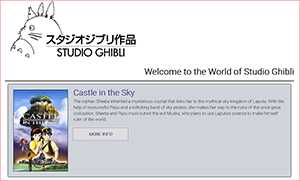
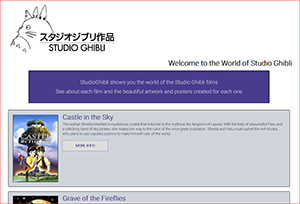
added summary to home page

diff --git a/assets/css/ghibli.min.css b/assets/css/ghibli.min.css
@@ -1,2 +1,2 @@
-*{-webkit-box-sizing:border-box;box-sizing:border-box;margin:0;padding:0;-webkit-transition-property:all;transition-property:all;-webkit-transition-duration:.6s;transition-duration:.6s;-webkit-transition-timing-function:ease;transition-timing-function:ease}body{font-family:'Roboto', sans-serif;font-size:16px;line-height:1.4em;color:#000;margin:50px}html{scroll-behavior:smooth}a{color:#000;text-decoration:none}.header{font-weight:bold;color:#483d8b}h2{color:#483d8b;font-weight:bold}header{border-bottom:2px solid #000}header h1{text-align:right}footer{font-size:12px;text-align:center;border-top:2px solid #000;padding:20px 0}.apiLogos{width:6%;height:6%;vertical-align:middle}button{color:#483d8b;cursor:pointer;font-size:16px;font-weight:bold;line-height:45px;margin:0 0 2em;max-width:200px;position:relative;text-decoration:none;text-transform:uppercase;width:100%;border-radius:4px;-webkit-border-radius:4px;-moz-border-radius:4px;-ms-border-radius:4px}button:hover{text-decoration:none;font-weight:normal}@media only screen and (max-width: 600px){body{margin:10px}header img{width:70%;height:auto}header h1{font-size:1.5em}button{font-size:12px}}.films{display:-webkit-box;display:-ms-flexbox;display:flex;-webkit-box-pack:center;-ms-flex-pack:center;justify-content:center;-webkit-box-align:center;-ms-flex-align:center;align-items:center;-webkit-box-orient:vertical;-webkit-box-direction:normal;-ms-flex-flow:column;flex-flow:column;max-width:100%}.film{display:-webkit-box;display:-ms-flexbox;display:flex;border:1px solid #000;margin:10px;padding:20px;background-color:#ced4da;border-radius:5px;-webkit-border-radius:5px;-moz-border-radius:5px;-ms-border-radius:5px}.filmPoster{margin-right:20px;vertical-align:top;border:1px solid #000}.filmPosterNoImage{font-size:12px;margin-right:20px;width:200px;color:red}.filmText h2{margin-bottom:10px;font-size:30px}.fa-image{font-size:100px;color:red}.films img{height:auto;width:200px}.moreInfo-button{margin-top:20px;border:0 solid;-webkit-box-shadow:inset 0 0 20px rgba(72,61,139,0);box-shadow:inset 0 0 20px rgba(72,61,139,0);outline:1px solid;outline-color:rgba(72,61,139,0.5);outline-offset:0px;text-shadow:none;-webkit-transition:all 1250ms cubic-bezier(0.19, 1, 0.22, 1);transition:all 1250ms cubic-bezier(0.19, 1, 0.22, 1);border-radius:4px;-webkit-border-radius:4px;-moz-border-radius:4px;-ms-border-radius:4px}.moreInfo-button:hover,.moreInfo-button:focus{border:1px solid;-webkit-box-shadow:inset 0 0 20px rgba(72,61,139,0.5),0 0 20px rgba(72,61,139,0.2);box-shadow:inset 0 0 20px rgba(72,61,139,0.5),0 0 20px rgba(72,61,139,0.2);outline-color:rgba(72,61,139,0);outline-offset:15px;text-shadow:1px 1px 2px #427388;border-radius:4px;-webkit-border-radius:4px;-moz-border-radius:4px;-ms-border-radius:4px}@media only screen and (max-width: 750px){.films img{height:50%;width:50%}.filmText h2{margin:10px 0;font-size:20px;line-height:25px}.film{-webkit-box-orient:vertical;-webkit-box-direction:normal;-ms-flex-direction:column;flex-direction:column}}.film-details{padding:20px;background-color:#ced4da;border-radius:4px;-webkit-border-radius:4px;-moz-border-radius:4px;-ms-border-radius:4px;margin:20px;border:1px solid #000}.film-details h2{margin:50px 0 30px 0}#js-film-details{display:none}.details-top{display:-webkit-box;display:-ms-flexbox;display:flex;-webkit-box-orient:horizontal;-webkit-box-direction:normal;-ms-flex-flow:row;flex-flow:row;-ms-flex-pack:distribute;justify-content:space-around;list-style-type:none}.details-filmPoster{width:300px;height:auto;vertical-align:top;border:1px solid #000}.details-information{width:auto;margin:0 50px;vertical-align:top}.details-information h2{margin-top:20px;font-size:30px}.details-information p{margin-top:5px}.details-backdrops,.details-posters{background-color:#483d8b;padding:20px;border-radius:4px;-webkit-border-radius:4px;-moz-border-radius:4px;-ms-border-radius:4px}.back-button{margin-top:50px;border:0 solid;-webkit-box-shadow:inset 0 0 20px rgba(72,61,139,0);box-shadow:inset 0 0 20px rgba(72,61,139,0);outline:1px solid;outline-color:rgba(72,61,139,0.5);outline-offset:0px;text-shadow:none;-webkit-transition:all 1250ms cubic-bezier(0.19, 1, 0.22, 1);transition:all 1250ms cubic-bezier(0.19, 1, 0.22, 1);border-radius:4px;-webkit-border-radius:4px;-moz-border-radius:4px;-ms-border-radius:4px}.back-button:hover,.back-button:focus{border:1px solid;-webkit-box-shadow:inset 0 0 20px rgba(72,61,139,0.5),0 0 20px rgba(72,61,139,0.2);box-shadow:inset 0 0 20px rgba(72,61,139,0.5),0 0 20px rgba(72,61,139,0.2);outline-color:rgba(72,61,139,0);outline-offset:15px;text-shadow:1px 1px 2px #427388;border-radius:4px;-webkit-border-radius:4px;-moz-border-radius:4px;-ms-border-radius:4px}@media only screen and (max-width: 800px){.details-filmPoster{width:100px;height:auto;vertical-align:top;border:1px solid #000}.details-information{margin:0 10px}.details-information h2{font-size:20px;line-height:25px}.details-top{-webkit-box-orient:vertical;-webkit-box-direction:normal;-ms-flex-direction:column;flex-direction:column}}
+*{-webkit-box-sizing:border-box;box-sizing:border-box;margin:0;padding:0;-webkit-transition-property:all;transition-property:all;-webkit-transition-duration:.6s;transition-duration:.6s;-webkit-transition-timing-function:ease;transition-timing-function:ease}body{font-family:'Roboto', sans-serif;font-size:16px;line-height:1.4em;color:#000;margin:50px}html{scroll-behavior:smooth}a{color:#000;text-decoration:none}.header{font-weight:bold;color:#483d8b}h2{color:#483d8b;font-weight:bold}header h1{text-align:right}footer{font-size:12px;text-align:center;border-top:2px solid #000;padding:20px 0}.apiLogos{width:6%;height:6%;vertical-align:middle}button{color:#483d8b;cursor:pointer;font-size:16px;font-weight:bold;line-height:45px;margin:0 0 2em;max-width:200px;position:relative;text-decoration:none;text-transform:uppercase;width:100%;border-radius:4px;-webkit-border-radius:4px;-moz-border-radius:4px;-ms-border-radius:4px}button:hover{text-decoration:none;font-weight:normal}@media only screen and (max-width: 600px){body{margin:10px}header img{width:70%;height:auto}header h1{font-size:1.5em}button{font-size:12px}}.films{display:-webkit-box;display:-ms-flexbox;display:flex;-webkit-box-pack:center;-ms-flex-pack:center;justify-content:center;-webkit-box-align:center;-ms-flex-align:center;align-items:center;-webkit-box-orient:vertical;-webkit-box-direction:normal;-ms-flex-flow:column;flex-flow:column;max-width:100%}.film{display:-webkit-box;display:-ms-flexbox;display:flex;border:1px solid #000;margin:10px;padding:20px;background-color:#ced4da;border-radius:5px;-webkit-border-radius:5px;-moz-border-radius:5px;-ms-border-radius:5px}.filmPoster{margin-right:20px;vertical-align:top;border:1px solid #000}.filmPosterNoImage{font-size:12px;margin-right:20px;width:200px;color:red}.filmText h2{margin-bottom:10px;font-size:30px}.fa-image{font-size:100px;color:red}.films img{height:auto;width:200px}.moreInfo-button{margin-top:20px;border:0 solid;-webkit-box-shadow:inset 0 0 20px rgba(72,61,139,0);box-shadow:inset 0 0 20px rgba(72,61,139,0);outline:1px solid;outline-color:rgba(72,61,139,0.5);outline-offset:0px;text-shadow:none;-webkit-transition:all 1250ms cubic-bezier(0.19, 1, 0.22, 1);transition:all 1250ms cubic-bezier(0.19, 1, 0.22, 1);border-radius:4px;-webkit-border-radius:4px;-moz-border-radius:4px;-ms-border-radius:4px}.moreInfo-button:hover,.moreInfo-button:focus{border:1px solid;-webkit-box-shadow:inset 0 0 20px rgba(72,61,139,0.5),0 0 20px rgba(72,61,139,0.2);box-shadow:inset 0 0 20px rgba(72,61,139,0.5),0 0 20px rgba(72,61,139,0.2);outline-color:rgba(72,61,139,0);outline-offset:15px;text-shadow:1px 1px 2px #427388;border-radius:4px;-webkit-border-radius:4px;-moz-border-radius:4px;-ms-border-radius:4px}.summary{border:1px solid #000;background-color:#483d8b;padding:20px;margin:20px 100px;border-radius:4px;-webkit-border-radius:4px;-moz-border-radius:4px;-ms-border-radius:4px}.summary p{margin:20px 0;text-align:center;color:#ced4da;font-size:24px}@media only screen and (max-width: 750px){.films img{height:50%;width:50%}.filmText h2{margin:10px 0;font-size:20px;line-height:25px}.film{-webkit-box-orient:vertical;-webkit-box-direction:normal;-ms-flex-direction:column;flex-direction:column}.summary{margin:10px 30px}.summary p{font-size:18px}}.film-details{padding:20px;background-color:#ced4da;border-radius:4px;-webkit-border-radius:4px;-moz-border-radius:4px;-ms-border-radius:4px;margin:20px;border:1px solid #000}.film-details h2{margin:50px 0 30px 0}#js-film-details{display:none}.details-top{display:-webkit-box;display:-ms-flexbox;display:flex;-webkit-box-orient:horizontal;-webkit-box-direction:normal;-ms-flex-flow:row;flex-flow:row;-ms-flex-pack:distribute;justify-content:space-around;list-style-type:none}.details-filmPoster{width:300px;height:auto;vertical-align:top;border:1px solid #000}.details-information{width:auto;margin:0 50px;vertical-align:top}.details-information h2{margin-top:20px;font-size:30px}.details-information p{margin-top:5px}.details-backdrops,.details-posters{background-color:#483d8b;padding:20px;border-radius:4px;-webkit-border-radius:4px;-moz-border-radius:4px;-ms-border-radius:4px}.back-button{margin-top:50px;border:0 solid;-webkit-box-shadow:inset 0 0 20px rgba(72,61,139,0);box-shadow:inset 0 0 20px rgba(72,61,139,0);outline:1px solid;outline-color:rgba(72,61,139,0.5);outline-offset:0px;text-shadow:none;-webkit-transition:all 1250ms cubic-bezier(0.19, 1, 0.22, 1);transition:all 1250ms cubic-bezier(0.19, 1, 0.22, 1);border-radius:4px;-webkit-border-radius:4px;-moz-border-radius:4px;-ms-border-radius:4px}.back-button:hover,.back-button:focus{border:1px solid;-webkit-box-shadow:inset 0 0 20px rgba(72,61,139,0.5),0 0 20px rgba(72,61,139,0.2);box-shadow:inset 0 0 20px rgba(72,61,139,0.5),0 0 20px rgba(72,61,139,0.2);outline-color:rgba(72,61,139,0);outline-offset:15px;text-shadow:1px 1px 2px #427388;border-radius:4px;-webkit-border-radius:4px;-moz-border-radius:4px;-ms-border-radius:4px}@media only screen and (max-width: 800px){.details-filmPoster{width:100px;height:auto;vertical-align:top;border:1px solid #000}.details-information{margin:0 10px}.details-information h2{font-size:20px;line-height:25px}.details-top{-webkit-box-orient:vertical;-webkit-box-direction:normal;-ms-flex-direction:column;flex-direction:column}}
 /*# sourceMappingURL=ghibli.min.css.map */

diff --git a/assets/css/ghibli.css b/assets/css/ghibli.css
@@ -39,10 +39,6 @@ h2 {
 }
 
 /* header */
-header {
-  border-bottom: 2px solid #000;
-}
-
 header h1 {
   text-align: right;
 }
@@ -192,6 +188,24 @@ button:hover {
   -ms-border-radius: 4px;
 }
 
+.summary {
+  border: 1px solid #000;
+  background-color: darkslateblue;
+  padding: 20px;
+  margin: 20px 100px;
+  border-radius: 4px;
+  -webkit-border-radius: 4px;
+  -moz-border-radius: 4px;
+  -ms-border-radius: 4px;
+}
+
+.summary p {
+  margin: 20px 0;
+  text-align: center;
+  color: #ced4da;
+  font-size: 24px;
+}
+
 @media only screen and (max-width: 750px) {
   .films img {
     height: 50%;
@@ -207,6 +221,12 @@ button:hover {
     -webkit-box-direction: normal;
         -ms-flex-direction: column;
             flex-direction: column;
+  }
+  .summary {
+    margin: 10px 30px;
+  }
+  .summary p {
+    font-size: 18px;
   }
 }
 

diff --git a/index.html b/index.html
@@ -20,12 +20,21 @@
           <h1>Welcome to the World of Studio Ghibli</h1>
         </header>
 
+        <section class="summary">
+          <p>
+            StudioGhibli shows you the world of the Studio Ghibli films
+          </p>
+          <p>
+            See about each film and the beautiful artwork and posters created for each one
+          </p>
+        </section>
+
         <section class="films" id="js-films"></section>
         <section class="film-details" id='js-film-details'></section>
       
       </main> 
 
-      <footer role="content-info">
+      <footer>
         Kimberly Cable &copy; <span id="year"></span>
         
         <div>

diff --git a/assets/scss/_home.scss b/assets/scss/_home.scss
@@ -67,6 +67,21 @@
   @include border-radius(4px);
 }
 
+.summary {
+  border: 1px solid $black;
+  background-color: $headers;
+  padding: 20px;
+  margin: 20px 100px;
+  @include border-radius(4px);
+}
+
+.summary p {
+  margin: 20px 0;
+  text-align: center;
+  color: $background-color;
+  font-size: 24px;
+}
+
 @media only screen and (max-width: 750px) {  
   .films img {
     height: 50%;
@@ -81,5 +96,13 @@
 
   .film {
     flex-direction: column;
+  }
+
+  .summary {
+    margin: 10px 30px;
+  }
+
+  .summary p {
+    font-size:  18px;
   }
 }

diff --git a/assets/scripts/scripts.js b/assets/scripts/scripts.js
@@ -135,6 +135,7 @@ function displayResultsDetails() {
   $('#js-film-details').empty();
   $('#js-films').toggle();
   $('#js-film-details').toggle();
+  $('.summary').toggle();
 
   let imageURL = '<div><i class="far fa-image"></i></div>';
 

diff --git a/assets/scss/_globals.scss b/assets/scss/_globals.scss
@@ -35,10 +35,6 @@ h2 {
 }
 
 /* header */
-header {
-  border-bottom: 2px solid $black;
-}
-
 header h1 {
   text-align: right;
 }

diff --git a/README.md b/README.md
@@ -1,7 +1,7 @@
 # Welcome to the World of Studio Ghibli.
 
 ## Summary
-StudioGhibli shows you the world of the Studio Ghibli films.  See about each film and the beautiful artwork and posters created for each film.
+StudioGhibli shows you the world of the Studio Ghibli films.  See about each film and the beautiful artwork and posters created for each one.
 
 ## View
 [Live View](https://cableredi.github.io/StudioGhibli/)
